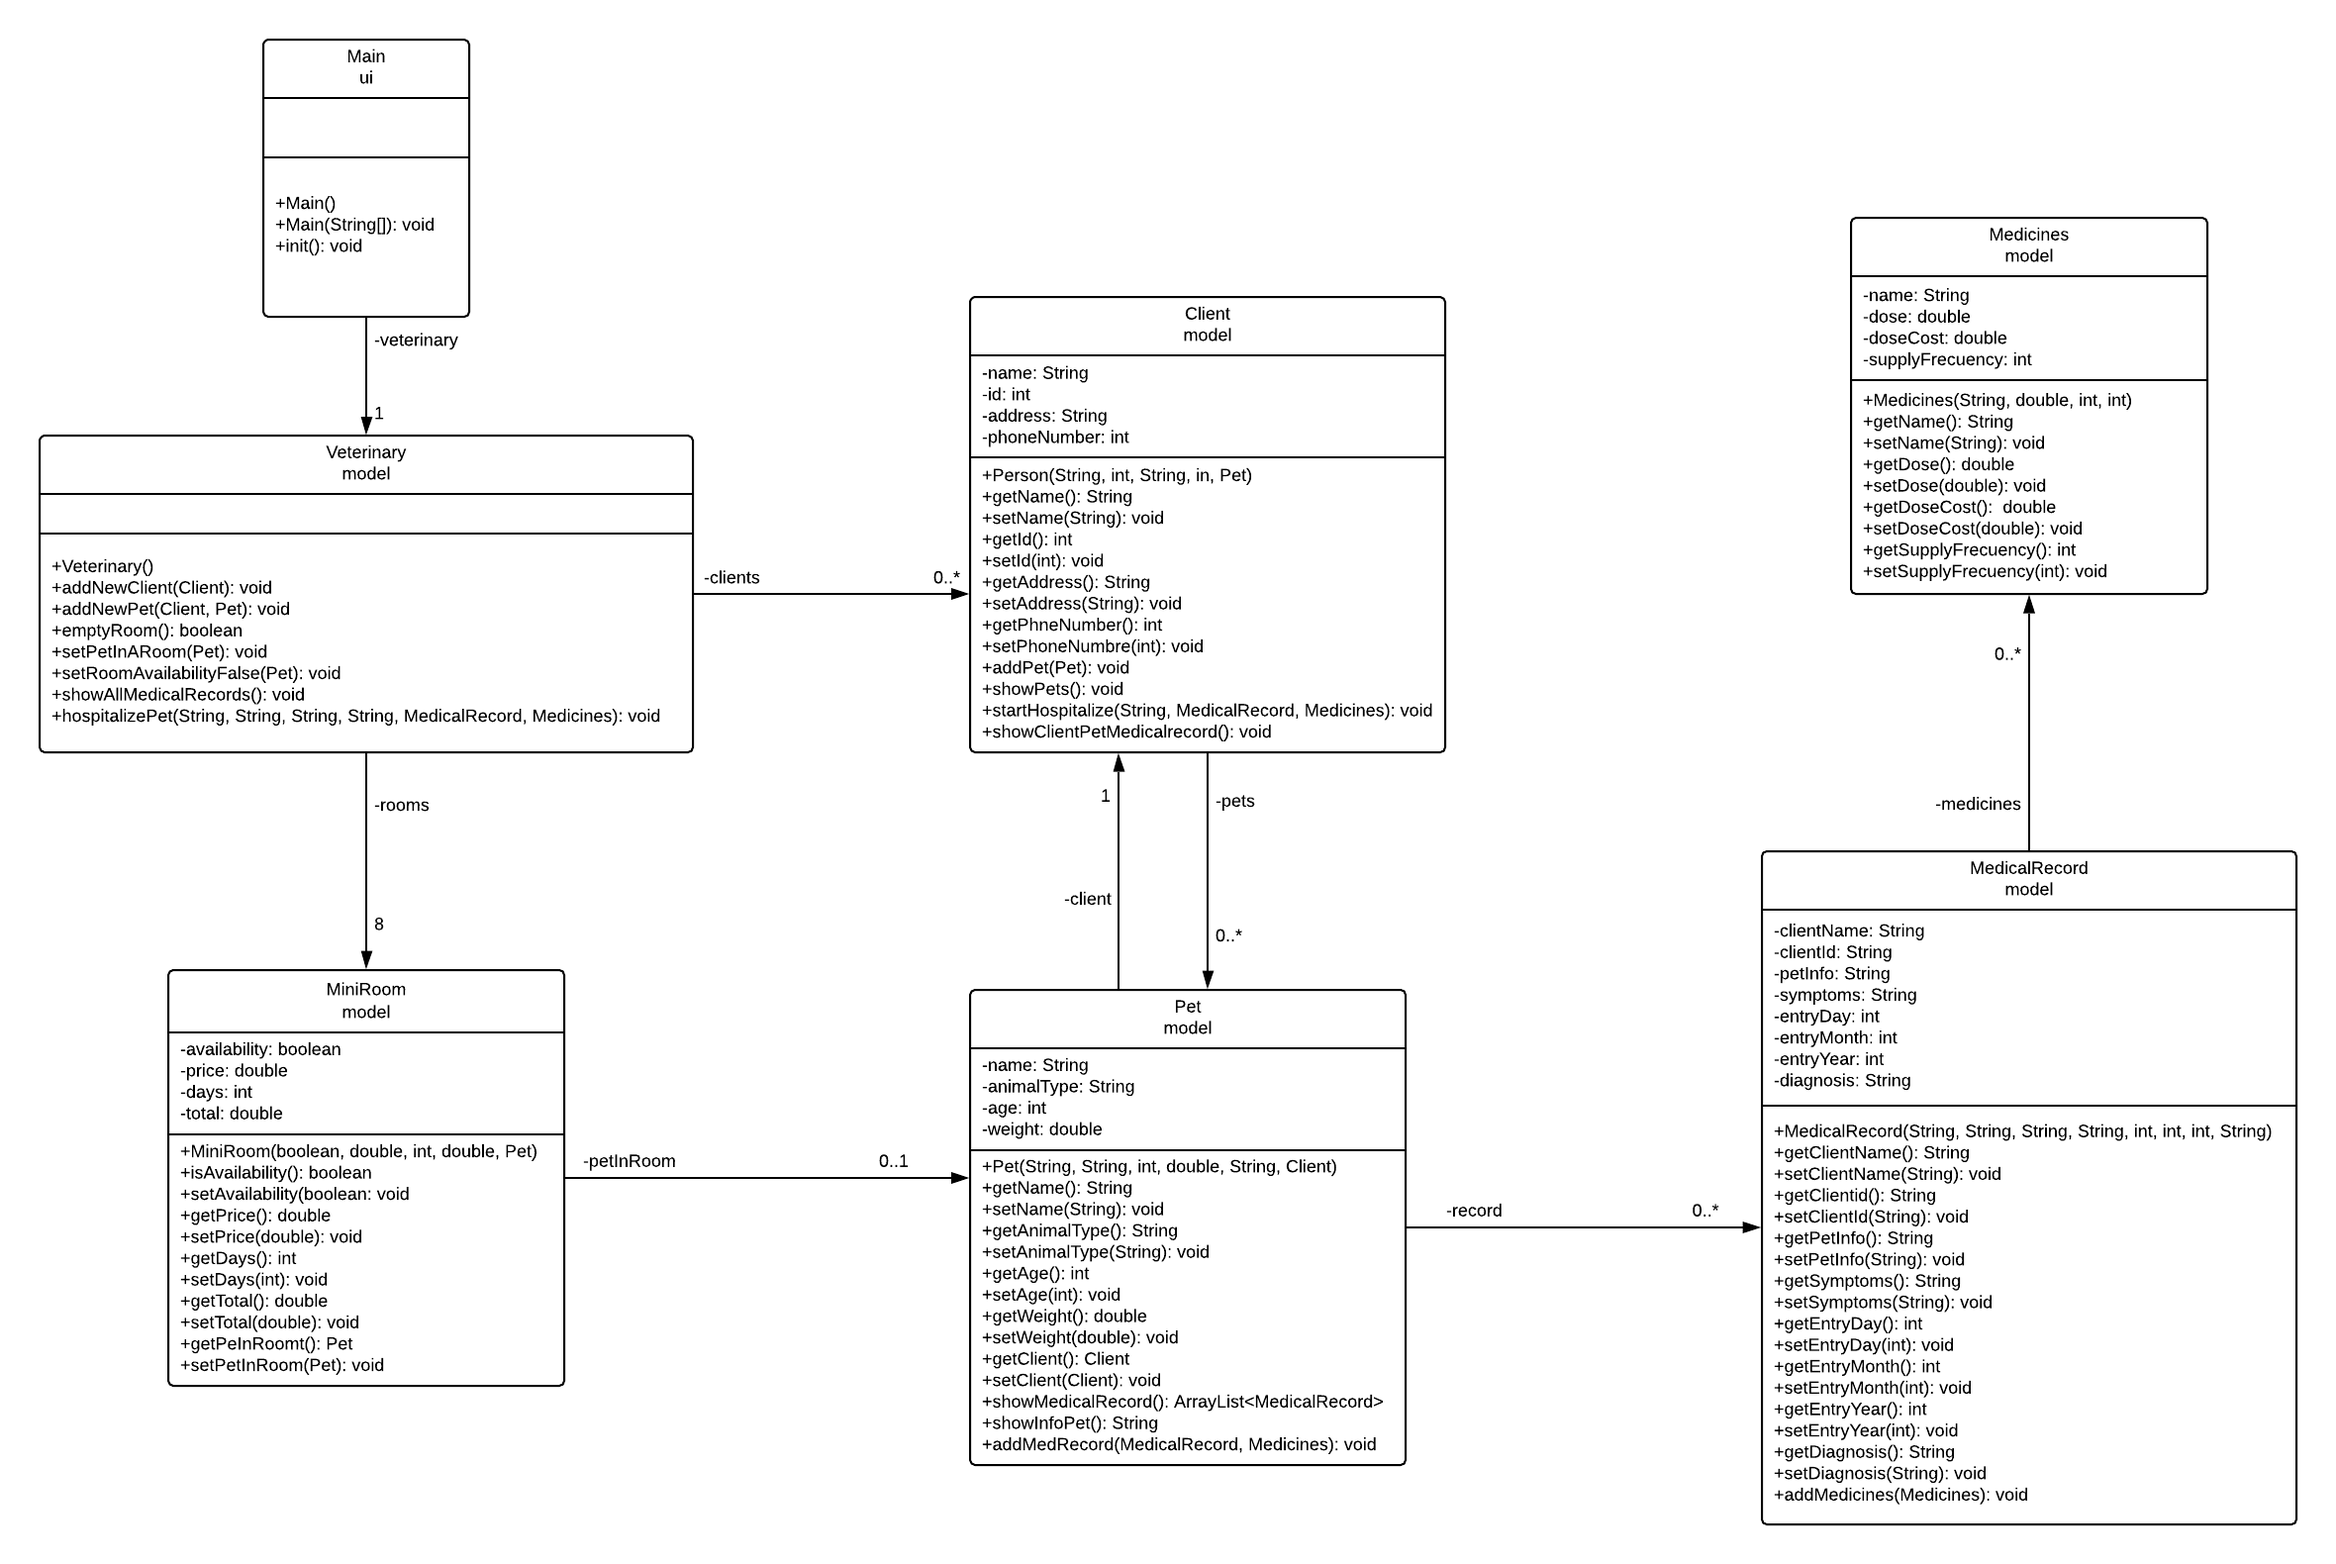
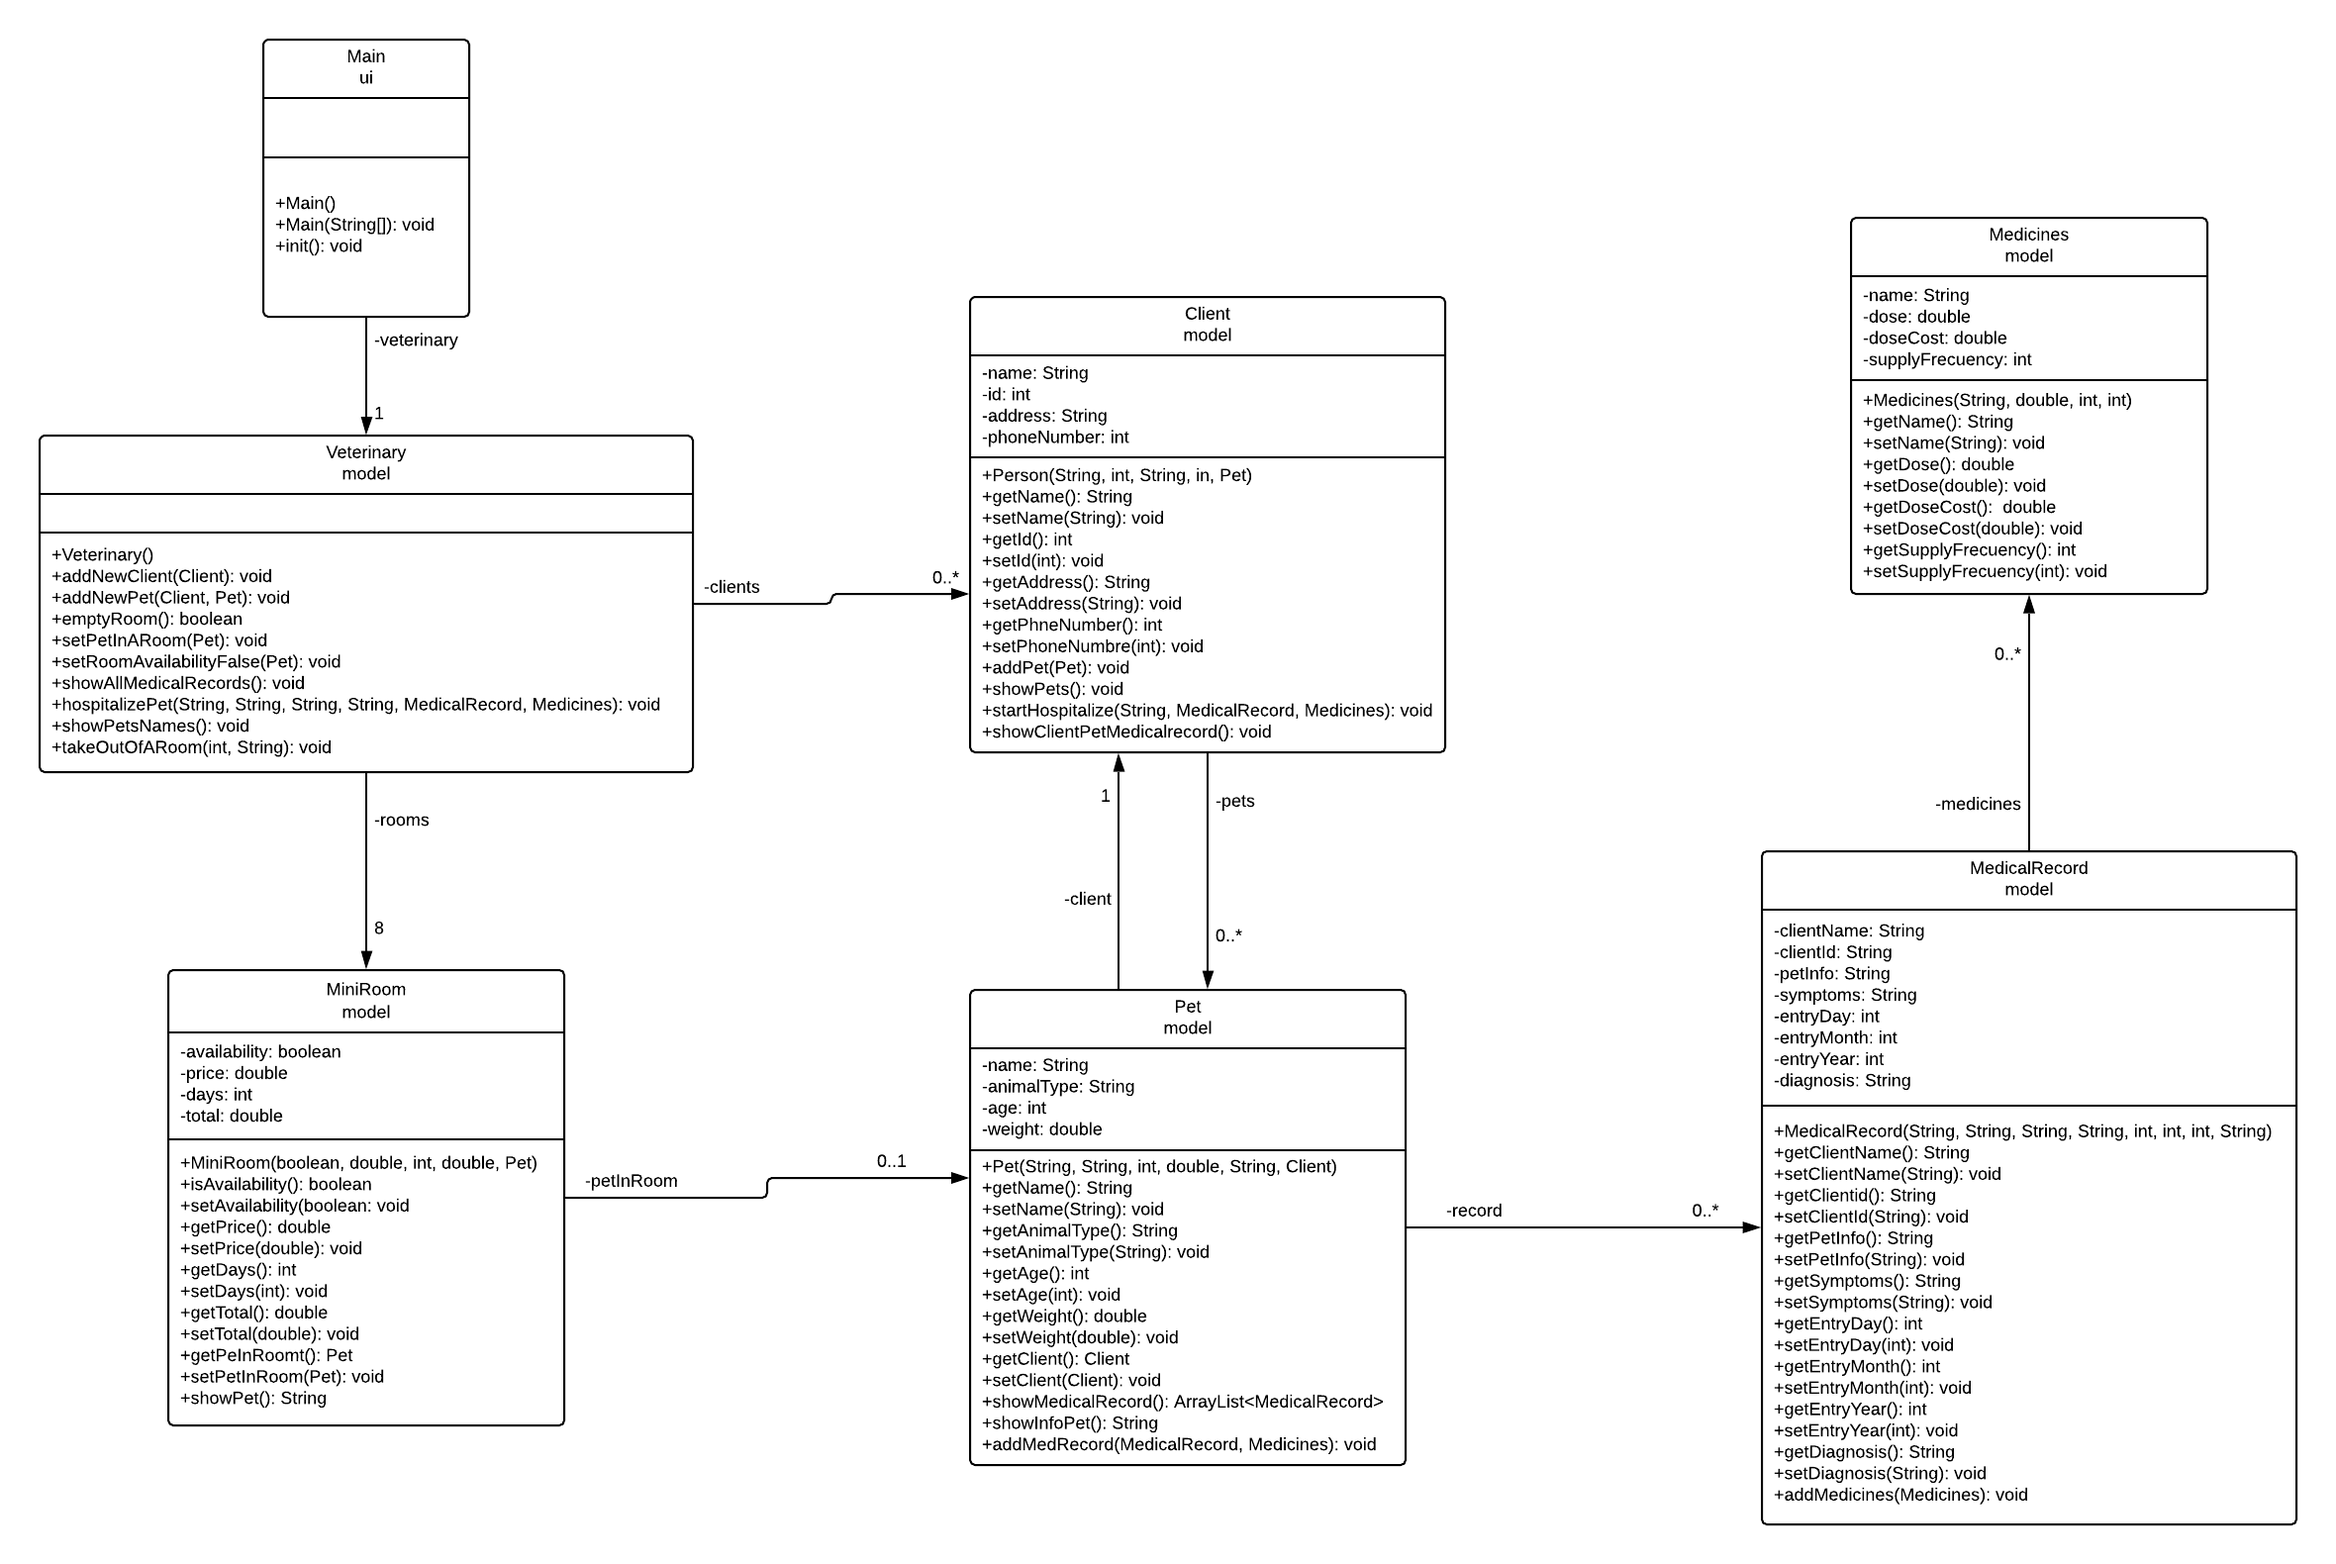
Final Try

diff --git a/src/ui/Main.java b/src/ui/Main.java
@@ -42,6 +42,9 @@ public class Main {
         case 2:
           showMedicalRecord();
         break;
+        case 3:
+          takeOutAPet();
+        break;
       }
     }
     while(option != 4);
@@ -138,7 +141,7 @@ public class Main {
       System.out.println("Digite el mes de ingreso: ");
       int entryMonth = readerInt.nextInt();
       System.out.println("");
-      System.out.println("Digite el año de ingreso: ");
+      System.out.println("Digite el anho de ingreso: ");
       int entryYear = readerInt.nextInt();
       System.out.println("");
       System.out.println("Digite el diagnostico: ");
@@ -172,5 +175,18 @@ public class Main {
 
   public void showMedicalRecord() {
     veterinary.showAllMedicalRecords();
+  }
+
+  public void takeOutAPet() {
+    if(veterinary.emptyRoom() == false) {
+      System.out.println("Digite el numero del cuarto y despues el nombre de la mascota: ");
+      veterinary.showPetsNames();
+      int numberOfRoom = readerInt.nextInt();
+      String petToTake = readerString.nextLine();
+      veterinary.takeOutOfARoom(numberOfRoom, petToTake);
+    }
+    else {
+      System.out.println("Todos los cuartos se encuentran vacios.");
+    }
   }
 }

diff --git a/src/model/Veterinary.java b/src/model/Veterinary.java
@@ -86,4 +86,19 @@ public class Veterinary {
       // }
     }
   }
+
+  public void showPetsNames() {
+    for(int i = 0; i < rooms.length; i++) {
+      System.out.println(i + " " + rooms[i].showPet());
+    }
+  }
+
+  public void takeOutOfARoom(int numberOfRoom, String petToTake) {
+    for(int i = 0; i < rooms.length; i++) {
+      if(petToTake == rooms[i].getPetInRoom().getName()) {
+        i = 7;
+        rooms[numberOfRoom].setPetInRoom(null);
+      }
+    }
+  }
 }

diff --git a/src/model/Client.java b/src/model/Client.java
@@ -54,9 +54,11 @@ public class Client {
     pets.add(newPet);
   }
 
-  public void showPets() {
-    System.out.println(pets.get(0).getName());
-  }
+  // public void showPets() {
+  //   for(int i = 0; i < pets.size(); i++) {
+  //     System.out.println(pets.get(i).getName());
+  //   }
+  // }
 
   public void startHospitalize(String petName, MedicalRecord medRecord, Medicines medicine){
     boolean bPets = false;

diff --git a/src/model/MiniRoom.java b/src/model/MiniRoom.java
@@ -55,4 +55,8 @@ public class MiniRoom {
   public void setPetInRoom(Pet petInRoom) {
     this.petInRoom = petInRoom;
   }
+
+  public String showPet() {
+    return System.out.println(getPetInRoom().getName());
+  }
 }
